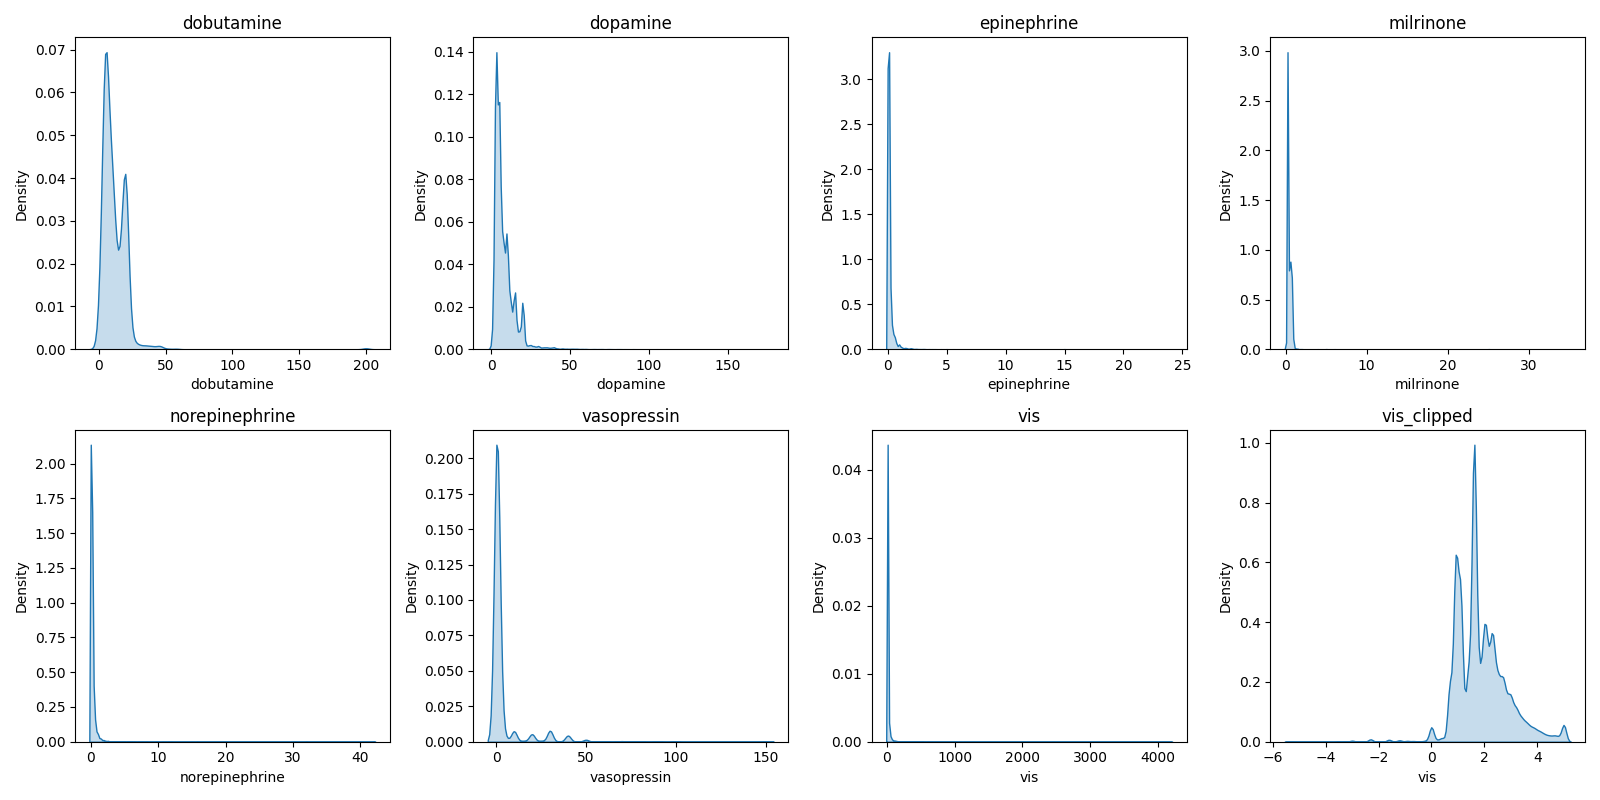
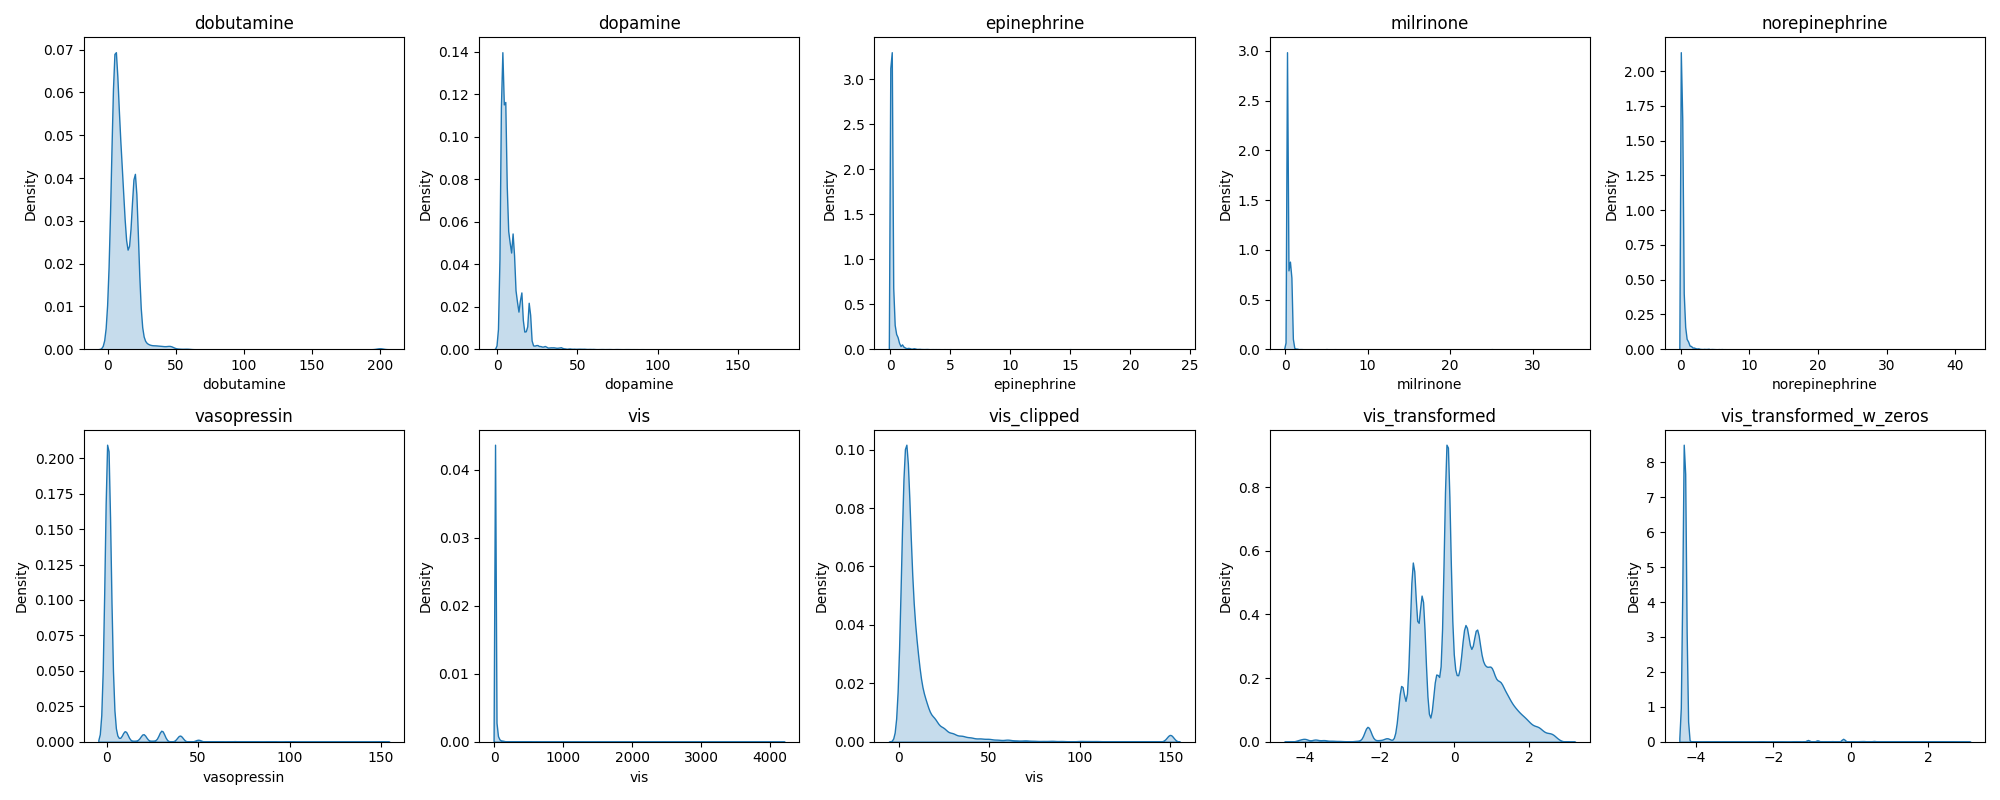
working on transforms for targets

diff --git a/analyse_input_features/analyse_target_features.py b/analyse_input_features/analyse_target_features.py
@@ -8,6 +8,8 @@ import matplotlib.pyplot as plt
 import seaborn as sns
 
 from scipy.stats import boxcox
+from sklearn.preprocessing import PowerTransformer
+
 
 sys.path.append(os.path.dirname(os.path.dirname(os.path.abspath(__file__))))
 from utilities import load_config
@@ -47,13 +49,13 @@ def vasoactive_inotropes_analysis(dataframe: pd.DataFrame, features_to_use: pd.D
     # create a figure with subplots for each feature (we can do 2 rows of 4, and will 
     # add an extra plot for the clipped vis)
 
-    expected_feature_names.append('vis_clipped')
+    expected_feature_names.extend(['vis_clipped', 'vis_transformed', 'vis_transformed_w_zeros'])
 
-    fig, axes = plt.subplots(2, 4, figsize=(16, 8))
+    fig, axes = plt.subplots(2, 5, figsize=(20, 8))
     axes = axes.flatten()
 
     for i, feature in enumerate(expected_feature_names):
-        if feature == 'vis_clipped':
+        if feature in ['vis_clipped', 'vis_transformed', 'vis_transformed_w_zeros']:
             feature_data = dataframe["vis"].dropna()
         else:
             feature_data = dataframe[feature].dropna()
@@ -62,9 +64,10 @@ def vasoactive_inotropes_analysis(dataframe: pd.DataFrame, features_to_use: pd.D
         print(f"Feature: {feature}, Rows with data: {n_feature_rows} out of {n_rows} ({n_feature_rows / n_rows * 100:.2f}%)")
 
         # drop all zeros from the feature data
-        feature_data = feature_data[feature_data != 0]
-        n_feature_rows = feature_data.shape[0]
-        print(f"Feature: {feature}, Rows with non-zero data: {n_feature_rows} out of {n_rows} ({n_feature_rows / n_rows * 100:.2f}%)")
+        if feature != 'vis_transformed_w_zeros':
+            feature_data = feature_data[feature_data != 0]
+            n_feature_rows = feature_data.shape[0]
+            print(f"Feature: {feature}, Rows with non-zero data: {n_feature_rows} out of {n_rows} ({n_feature_rows / n_rows * 100:.2f}%)")
 
         if feature == 'vis_clipped':
             # calculate the interquartile range (IQR) for the vis feature
@@ -86,8 +89,16 @@ def vasoactive_inotropes_analysis(dataframe: pd.DataFrame, features_to_use: pd.D
             min_value = feature_data.min()
             print(f"Min value for {feature}: {min_value}")
 
-            # log transform the data
-            feature_data = np.log(feature_data + 1e-5)  # add a small constant to avoid log(0)
+        elif feature in ['vis_transformed', 'vis_transformed_w_zeros']:
+
+            # cubert transform the data
+            # feature_data = np.power(feature_data, 1/5)  # add a small constant to avoid log(0)
+           
+            if feature == 'vis_transformed':
+                pt = PowerTransformer(method='yeo-johnson')
+                feature_data = pt.fit_transform(feature_data.values.reshape(-1, 1)).flatten()
+            elif feature == 'vis_transformed_w_zeros':
+                feature_data = pt.transform(feature_data.values.reshape(-1, 1)).flatten()                
 
         # create a sns.kde plot for the feature
         sns.kdeplot(feature_data, ax=axes[i], fill=True)
@@ -104,6 +115,11 @@ def vasoactive_inotropes_analysis(dataframe: pd.DataFrame, features_to_use: pd.D
 
 
 def iv_input_analysis(dataframe: pd.DataFrame, features_to_use: pd.DataFrame):
+    """
+    box_intake appears to do a nice job of normalizing the non-zero intake values,
+    but is not very good at handling zeros. For that reason, we will initially go 
+    with the cuberoot transformation, which seems to do reasonably well.
+    """
 
     feature = "intake"
     feature_data = dataframe[feature]
@@ -115,32 +131,40 @@ def iv_input_analysis(dataframe: pd.DataFrame, features_to_use: pd.DataFrame):
 
     print(f"Feature: {feature}, Rows with data: {n_feature_rows} out of {n_rows} ({n_feature_rows / n_rows * 100:.2f}%)")
 
-    # drop all zeros from the feature data
-    feature_data = feature_data[feature_data != 0]
-    n_feature_rows = len(feature_data)
-
-    print(f"Feature: {feature}, Rows with non-zero data: {n_feature_rows} out of {n_rows} ({n_feature_rows / n_rows * 100:.2f}%)")
-
-    fig, axes = plt.subplots(1, 4, figsize=(16, 4))
+    fig, axes = plt.subplots(2, 5, figsize=(20, 8))
     axes = axes.flatten()
 
-    sns.kdeplot(feature_data, ax=axes[0], fill=True)
-    axes[0].set_title(feature)
+    for i in range(2):
 
-    min_value = feature_data.min()
-    print(f"Min value for {feature}: {min_value}")
-    log_data = np.log(feature_data + 1e-5)  # add a small constant to avoid log(0)
-    sns.kdeplot(log_data, ax=axes[1], fill=True)
-    axes[1].set_title(f"log_{feature}")
+        if i == 0:
+            # drop all zeros from the feature data
+            feature_data_temp = feature_data[feature_data != 0].copy()
+            n_feature_rows = len(feature_data_temp)
+            print(f"Feature: {feature}, Rows with non-zero data: {n_feature_rows} out of {n_rows} ({n_feature_rows / n_rows * 100:.2f}%)")
 
-    sqrt_data = np.sqrt(feature_data + 1e-5)  # add a small constant to avoid log(0)
-    sns.kdeplot(sqrt_data, ax=axes[2], fill=True)
-    axes[2].set_title(f"sqrt_{feature}")
+        else: # keep all data, including zeros
+            feature_data_temp = feature_data.copy()
+            
+        sns.kdeplot(feature_data_temp, ax=axes[0 + i*5], fill=True)
+        axes[0 + i*5].set_title(feature)
 
-    box_data = boxcox(feature_data + 1e-5)  # add a small constant to avoid log(0)
-    sns.kdeplot(box_data, ax=axes[3], fill=True)
-    axes[3].set_title(f"box_{feature}")
+        min_value = feature_data_temp.min()
+        print(f"Min value for {feature}: {min_value}")
+        log_data = np.log(feature_data_temp + 1e-5)  # add a small constant to avoid log(0)
+        sns.kdeplot(log_data, ax=axes[1 + i*5], fill=True)
+        axes[1 + i*5].set_title(f"log_{feature}")
 
+        sqrt_data = np.sqrt(feature_data_temp + 1e-5)  # add a small constant to avoid log(0)
+        sns.kdeplot(sqrt_data, ax=axes[2 + i*5], fill=True)
+        axes[2 + i*5].set_title(f"sqrt_{feature}")
+
+        box_data = boxcox(feature_data_temp + 1e-5)  # add a small constant to avoid log(0)
+        sns.kdeplot(box_data, ax=axes[3 + i*5], fill=True)
+        axes[3 + i*5].set_title(f"box_{feature}")
+
+        cuberoot_data = np.cbrt(feature_data_temp + 1e-5)  # add a small constant to avoid log(0)
+        sns.kdeplot(cuberoot_data, ax=axes[4 + i*5], fill=True)
+        axes[4 + i*5].set_title(f"cuberoot_{feature}")
 
     plt.tight_layout()
     # plt.show()
@@ -163,9 +187,9 @@ def main():
 
     dataframe = pd.read_parquet(data_config["dataframe_path"])
 
-    # vasoactive_inotropes_analysis(dataframe, features_to_use)
+    vasoactive_inotropes_analysis(dataframe, features_to_use)
 
-    iv_input_analysis(dataframe, features_to_use)
+    # iv_input_analysis(dataframe, features_to_use)
 
     pass
 

diff --git a/any_percent_bc.py b/any_percent_bc.py
@@ -72,7 +72,8 @@ class Actor(nn.Module):
             nn.Linear(256, 256),
             nn.ReLU(),
             nn.Linear(256, action_dim),
-            nn.Tanh(),
+            # nn.Tanh(),
+            nn.Sigmoid(), # I've change the activation since drugs are scaled to [0, 1]
         )
 
         self.max_action = max_action
